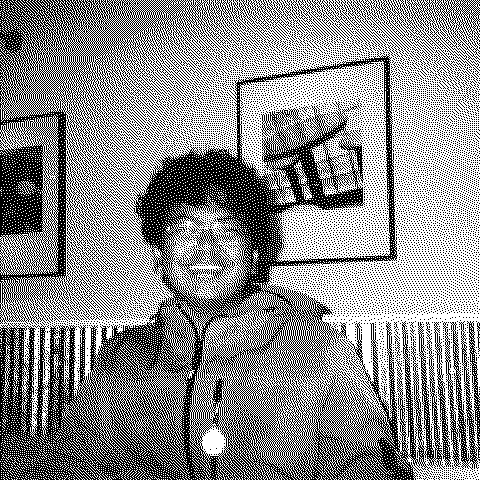
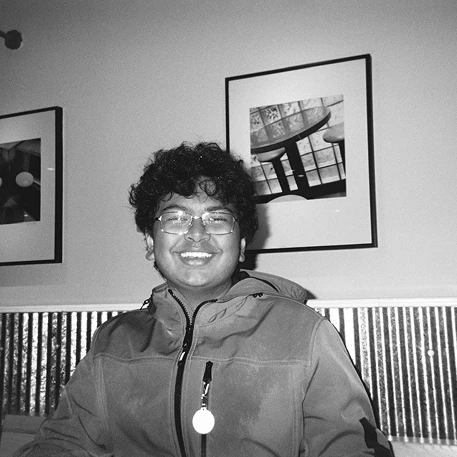
rendered portrait

diff --git a/src/components/landing/Portrait.svelte b/src/components/landing/Portrait.svelte
@@ -1,0 +1,153 @@
+<script lang="ts">
+	import { onMount } from 'svelte';
+	import { ditherBayer } from '../../lib/dither';
+
+	interface Props {
+		/** The photo, in full tone: it is dithered here, on the screen's own pixels. */
+		portrait: string;
+		/** The photo's place in the column: an empty box its size, which the column's intro scales along with the rest. */
+		spacer?: HTMLElement;
+		/** The column's animated group, whose intro (scale and opacity) the photo follows frame by frame. */
+		group?: HTMLElement;
+	}
+
+	let { portrait, spacer, group }: Props = $props();
+
+	const fade = 'transition-colors duration-320 ease-out motion-reduce:transition-none';
+
+	/*
+	 * The dithered look only holds when one cell of the pattern is one device pixel: a
+	 * dithered image resampled to any other size turns to moiré, which is what the old 480px
+	 * export did past 1440 wide, where the page zooms, and what a live dither did under the
+	 * intro, which scales the column up to full size. So this box sits over the photo's place
+	 * in the column from outside the animated group, where nothing transforms it, and its
+	 * canvas, sized to the box in device pixels, draws the photo wherever the place is right
+	 * now (smaller and shifted while the intro runs, at rest after) and dithers it there, on
+	 * the spot, frame by frame while the intro runs and again whenever the box's size changes
+	 * (the breakpoint, the page zoom, the screen's density). The box fades with the group.
+	 */
+	let box: HTMLDivElement;
+	let img: HTMLImageElement;
+	let canvas: HTMLCanvasElement;
+	let ctx: CanvasRenderingContext2D | null = null;
+	/** The canvas in device pixels. */
+	let width = 0;
+	let height = 0;
+	let frame = 0;
+
+	/** Draws the photo, dithered, where its place in the column is right now. */
+	const draw = () => {
+		if (!ctx || !width || !height || !img.complete || !img.naturalWidth) return;
+		const place = (spacer ?? box).getBoundingClientRect();
+		const own = canvas.getBoundingClientRect();
+		// Device pixels per unit of the rects, whatever space they are in.
+		const k = width / own.width;
+		const x = Math.round((place.left - own.left) * k);
+		const y = Math.round((place.top - own.top) * k);
+		const w = Math.round(place.width * k);
+		const h = Math.round(place.height * k);
+		if (!w || !h) return;
+		canvas.width = width;
+		canvas.height = height;
+		ctx.imageSmoothingEnabled = true;
+		ctx.imageSmoothingQuality = 'high';
+		// The photo covers its place, as object-fit: cover does for the image beneath.
+		const scale = Math.max(w / img.naturalWidth, h / img.naturalHeight);
+		const iw = img.naturalWidth * scale;
+		const ih = img.naturalHeight * scale;
+		ctx.save();
+		ctx.beginPath();
+		ctx.rect(x, y, w, h);
+		ctx.clip();
+		ctx.drawImage(img, x + (w - iw) / 2, y + (h - ih) / 2, iw, ih);
+		ctx.restore();
+		const pixels = ctx.getImageData(x, y, w, h);
+		ditherBayer(pixels, { origin: { x, y } });
+		ctx.putImageData(pixels, x, y);
+	};
+
+	/** A frame: draw, and while the group's intro runs, fade with it and come back next frame. */
+	const tick = () => {
+		frame = 0;
+		draw();
+		const running = (group?.getAnimations().length ?? 0) > 0;
+		box.style.opacity = running && group ? getComputedStyle(group).opacity : '';
+		if (running) frame = requestAnimationFrame(tick);
+	};
+	const schedule = () => {
+		if (!frame) frame = requestAnimationFrame(tick);
+	};
+
+	onMount(() => {
+		ctx = canvas.getContext('2d', { willReadFrequently: true });
+		if (!ctx) return;
+
+		// The canvas in device pixels: exactly, where the observer reports them (Chrome, Firefox);
+		// otherwise from its CSS size, the zoom in effect on it and the screen's pixel ratio.
+		const measure = (entry?: ResizeObserverEntry) => {
+			const exact = entry?.devicePixelContentBoxSize?.[0];
+			if (exact) {
+				width = exact.inlineSize;
+				height = exact.blockSize;
+				return;
+			}
+			const zoom =
+				(canvas as { currentCSSZoom?: number }).currentCSSZoom ??
+				(parseFloat(getComputedStyle(document.documentElement).getPropertyValue('--page-zoom')) || 1);
+			width = Math.round(canvas.clientWidth * zoom * devicePixelRatio);
+			height = Math.round(canvas.clientHeight * zoom * devicePixelRatio);
+		};
+		// Measured by hand, the zoom and the pixel ratio can change with no change to the CSS
+		// box, so the window's resize (where the page sets its zoom) is watched as well.
+		const remeasure = () => {
+			measure();
+			schedule();
+		};
+		let byHand = false;
+		const observer = new ResizeObserver(([entry]) => {
+			if (!byHand && !entry.devicePixelContentBoxSize?.[0]) {
+				byHand = true;
+				addEventListener('resize', remeasure);
+			}
+			measure(entry);
+			schedule();
+		});
+		try {
+			observer.observe(canvas, { box: 'device-pixel-content-box' });
+		} catch {
+			observer.observe(canvas);
+		}
+		img.addEventListener('load', schedule);
+
+		return () => {
+			observer.disconnect();
+			removeEventListener('resize', remeasure);
+			img.removeEventListener('load', schedule);
+			cancelAnimationFrame(frame);
+		};
+	});
+</script>
+
+<!--
+	The box is the photo's place at rest; the canvas and the wash run 12px past it to the right
+	and bottom, where the intro's scaling (95%, about the column's centre) pushes the photo by
+	up to about 7px. The canvas is black where no photo is drawn (and all over until the first
+	draw), so the wash, which multiplies with what is under it within the column's stacking
+	context, always has black to multiply with there and shows nothing of its own.
+
+	With JavaScript (html.js, set in the head) the canvas is the photo from first paint and the
+	image only feeds it; without, the image is the photo and the canvas stays hidden. Both are
+	switched by utilities, which land in the global stylesheet, where a component style would
+	not until the component's code arrives in dev. The image is hidden by opacity, so it stays
+	the photo for assistive tech.
+-->
+<div bind:this={box} class="absolute top-0 left-0 size-30 sm:size-40">
+	<img bind:this={img} src={portrait} alt="Manitej" width="160" height="160" class="size-full object-cover [.js_&]:opacity-0" />
+	<canvas
+		bind:this={canvas}
+		class="invisible absolute top-0 left-0 h-[calc(100%+12px)] w-[calc(100%+12px)] bg-black [image-rendering:pixelated] [.js_&]:visible"
+		aria-hidden="true"
+	></canvas>
+	<!-- A wash over the photo: peach at rest, the hovered project's ink. -->
+	<div class="absolute -right-3 -bottom-3 top-0 left-0 mix-blend-multiply {fade}" style:background-color="var(--c-tint)"></div>
+</div>

diff --git a/src/components/landing/Landing.svelte b/src/components/landing/Landing.svelte
@@ -3,6 +3,7 @@
 	import type { Project, Slug } from '../../data/work';
 	import Bio from './Bio.svelte';
 	import NameWarp from './NameWarp.svelte';
+	import Portrait from './Portrait.svelte';
 	import ProjectRow from './ProjectRow.svelte';
 
 	interface Props {
@@ -19,6 +20,11 @@
 	let { projects, previews, heroes, portrait, emblems, silly }: Props = $props();
 
 	let active = $state<Slug | null>(null);
+
+	// The column's animated group and the photo's place in it, for the portrait, which is drawn
+	// from outside the group so the intro can't resample its dither (see Portrait.svelte).
+	let group = $state<HTMLDivElement>();
+	let spacer = $state<HTMLDivElement>();
 
 	// TEMP (debugging): Alt+clicking a row pins its hover state until it's Alt+clicked again.
 	let pinned = $state<Slug | null>(null);
@@ -62,24 +68,27 @@
 	style:--c-dots={theme?.dots ?? 'var(--color-cream)'}
 	data-active={active}
 >
-	<!-- The column settles in as one as the page lands, on the dots' clock: 95% to full size, fading in from nothing. -->
-	<div class="settle-in relative z-10 flex w-full max-w-[517px] flex-col gap-12">
-		<Bio {portrait} />
-		<div class="flex flex-col gap-1">
-			<p class="text-xs leading-[normal] text-peach">Selected Work</p>
-			<ul class="flex flex-col gap-2" onmouseleave={deactivate}>
-				{#each projects as project (project.slug)}
-					<ProjectRow
-						{project}
-						emblem={emblems[project.slug]}
-						active={active === project.slug}
-						onactivate={() => activate(project.slug)}
-						ondeactivate={deactivate}
-						onpin={() => togglePin(project.slug)}
-					/>
-			{/each}
-			</ul>
+	<!-- The column settles in as one as the page lands, on the dots' clock: 95% to full size, fading in from nothing. The portrait follows from over its place, outside the group. -->
+	<div class="relative z-10 w-full max-w-[517px]">
+		<div bind:this={group} class="settle-in flex flex-col gap-12">
+			<Bio bind:spacer />
+			<div class="flex flex-col gap-1">
+				<p class="text-xs leading-[normal] text-peach">Selected Work</p>
+				<ul class="flex flex-col gap-2" onmouseleave={deactivate}>
+					{#each projects as project (project.slug)}
+						<ProjectRow
+							{project}
+							emblem={emblems[project.slug]}
+							active={active === project.slug}
+							onactivate={() => activate(project.slug)}
+							ondeactivate={deactivate}
+							onpin={() => togglePin(project.slug)}
+						/>
+					{/each}
+				</ul>
+			</div>
 		</div>
+		<Portrait {portrait} {spacer} {group} />
 	</div>
 
 	<!--

diff --git a/src/lib/dither.ts b/src/lib/dither.ts
@@ -1,0 +1,60 @@
+/**
+ * Ordered dithering to black and white, in place, with a Bayer matrix: each pixel's luma
+ * is compared with a threshold that repeats in a `size` × `size` tile, so flat tones become
+ * the regular crosshatch the portrait was first exported with. It runs on a canvas sized to
+ * the screen's own pixels, so one cell of the pattern is one device pixel at any zoom.
+ *
+ * Pixels that are mostly transparent stay clear (fully), so the image can be drawn into a
+ * part of the canvas. `origin` is where the image data sits on the canvas, so the tile stays
+ * anchored to the screen rather than to the image when the image moves. `black` and `white`
+ * are the luma (0–255) that map to full black and full white, for stretching the tones.
+ */
+export function ditherBayer(
+	image: ImageData,
+	{
+		size = 8,
+		black = 0,
+		white = 255,
+		origin = { x: 0, y: 0 },
+	}: { size?: 2 | 4 | 8 | 16; black?: number; white?: number; origin?: { x: number; y: number } } = {},
+): void {
+	const matrix = bayer(size);
+	const cells = size * size;
+	const span = white - black || 1;
+	const { data, width, height } = image;
+	for (let y = 0; y < height; y++) {
+		const row = matrix[(y + origin.y) % size];
+		for (let x = 0; x < width; x++) {
+			const i = (y * width + x) * 4;
+			if (data[i + 3] < 128) {
+				data[i + 3] = 0;
+				continue;
+			}
+			// Rec. 709 luma, with black..white stretched to 0..1.
+			const luma = (0.2126 * data[i] + 0.7152 * data[i + 1] + 0.0722 * data[i + 2] - black) / span;
+			const on = luma > (row[(x + origin.x) % size] + 0.5) / cells;
+			data[i] = data[i + 1] = data[i + 2] = on ? 255 : 0;
+			data[i + 3] = 255;
+		}
+	}
+}
+
+/** The `size` × `size` Bayer matrix, values 0 to size² − 1, doubled up from [[0, 2], [3, 1]]. */
+export function bayer(size: number): number[][] {
+	let m = [[0]];
+	while (m.length < size) {
+		const n = m.length;
+		const next = Array.from({ length: 2 * n }, () => new Array<number>(2 * n));
+		for (let y = 0; y < n; y++) {
+			for (let x = 0; x < n; x++) {
+				const v = 4 * m[y][x];
+				next[y][x] = v;
+				next[y][x + n] = v + 2;
+				next[y + n][x] = v + 3;
+				next[y + n][x + n] = v + 1;
+			}
+		}
+		m = next;
+	}
+	return m;
+}

diff --git a/src/components/landing/Bio.svelte b/src/components/landing/Bio.svelte
@@ -1,20 +1,17 @@
 <script lang="ts">
 	interface Props {
-		portrait: string;
+		/** The photo's place: an empty box, for Portrait.svelte to draw the photo over from outside the column's intro. */
+		spacer?: HTMLDivElement;
 	}
 
-	let { portrait }: Props = $props();
+	let { spacer = $bindable() }: Props = $props();
 
 	const fade = 'transition-colors duration-320 ease-out motion-reduce:transition-none';
 </script>
 
 <section class="flex flex-col gap-5">
 	<!-- 160px on desktop, 120px on phones, as in the two Figma frames. -->
-	<div class="relative size-30 sm:size-40">
-		<img src={portrait} alt="Manitej" width="160" height="160" class="size-full object-cover" />
-		<!-- A wash over the photo: peach at rest, the hovered project's ink. -->
-		<div class="absolute inset-0 mix-blend-multiply {fade}" style:background-color="var(--c-tint)"></div>
-	</div>
+	<div bind:this={spacer} class="size-30 sm:size-40" aria-hidden="true"></div>
 	<div class="flex flex-col gap-[1lh] text-xs leading-[normal] sm:text-base {fade}" style:color="var(--c-ink)">
 		<p>
 			My name is Manitej Boorgu. I’m a programmer and designer making atypical and bold visual
